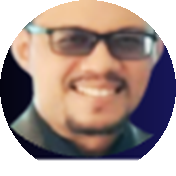
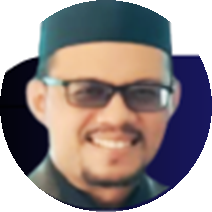
Besarkan potret organisasi dan buang nota tarikh roadmap
Potret
- Beberapa kepala terpotong oleh bingkai bulat kerana potongan asal terlalu
  ketat dan pusatnya terlalu rendah: kepala duduk kira-kira 17px lebih
  tinggi daripada pusat yang digunakan.
- Dipotong semula pada 106px (dahulu 88px) dengan pusat dinaikkan, dan
  dieksport pada 212px. Kesemua lima kepala kini muat dengan ruang lega.
- Bingkai paparan dibesarkan: 58px ke 74px pada desktop, 48px ke 60px pada
  telefon.

Roadmap
- Nota "Hanya penubuhan mempunyai tarikh khusus..." dibuang daripada
  halaman roadmap dan daripada bahagian roadmap di dashboard utama.

diff --git a/app.js b/app.js
@@ -81,7 +81,7 @@ function dashboard(){
 <div class="stats">${stat(null,'Entri program, pencapaian & perancangan',{count:data.programs.length})}${stat(null,'Jumlah asas active streaming dilaporkan',{count:reach,suffix:'++',note:'3 program berangka'})}${stat(null,'Tahun paling aktif dalam rekod',{count:busiest.value,note:busiest.label+' · entri terbanyak'})}${stat(null,'Modul pembelajaran tambahan',{count:data.training.length,note:'Bukan pensijilan rasmi'})}</div>
 <div class="chart-row"><section class="panel chart-main"><div class="chart-card-title"><div><span class="chart-kicker">Garis masa rekod</span><h2>Aktiviti mengikut tahun</h2></div><span class="chart-period">${dated} entri bertarikh</span></div><p class="muted">Setiap entri dikira sekali mengikut tarikhnya. Entri yang merentas dua tahun dikekalkan sebagai kategori tersendiri.</p>${CAAITVisuals.columns(years,{unit:'entri',caption:'Bilangan entri',emphasis:busiest.label})}${dated<data.programs.length?`<p class="source">${e(data.programs.length-dated)} entri belum bertarikh dan tidak dipaparkan sebagai lajur.</p>`:''}</section>${CAAITVisuals.composition(data.programs)}</div>
 <div class="grid-2"><section class="panel"><div class="chart-card-title"><div><span class="chart-kicker">Jangkauan</span><h2>Perkongsian AI</h2></div></div><p class="muted">Active streaming yang dilaporkan.</p>${bars(audiences.map(p=>({label:p.title,value:p.audience,display:p.audienceLabel})),{unit:'active streaming',caption:'Active streaming',emphasis:top.title,summary:'Lihat jadual jangkauan'})}<p class="source">Panjang bar menggunakan nilai asas. “++” bermaksud melebihi angka tersebut. Ini bukan jumlah pelawat unik website; program lain tidak dianggap sifar.</p><p>${e(top.title)} merekodkan angka asas penonton tertinggi antara tiga program yang mempunyai data.</p></section><section class="panel"><div class="chart-card-title"><div><span class="chart-kicker">Belajar</span><h2>Ruang latihan</h2></div></div><p class="muted">Belajar menghasilkan, membina dan menerbitkan dashboard.</p>${trainingLinks()}<p class="source">Kandungan latihan tambahan; bukan rekod program atau pensijilan rasmi CAAiT.</p></section></div>
-<section class="panel"><div class="chart-card-title"><div><span class="chart-kicker">Hala tuju</span><h2>Roadmap CAAiT</h2></div><a class="btn secondary" href="#roadmap">Perincian penuh ↗</a></div><p class="muted">Enam peringkat hala tuju CAAiT. Warna semakin pekat mengikut urutan peringkat, bukan peratus siap.</p>${CAAITVisuals.stages(data.roadmap.map(([title,date,body])=>({title,date,body})))}<p class="source">Hanya penubuhan mempunyai tarikh khusus. Peringkat lain belum ditetapkan tarikh atau peratus siap.</p></section>
+<section class="panel"><div class="chart-card-title"><div><span class="chart-kicker">Hala tuju</span><h2>Roadmap CAAiT</h2></div><a class="btn secondary" href="#roadmap">Perincian penuh ↗</a></div><p class="muted">Enam peringkat hala tuju CAAiT. Warna semakin pekat mengikut urutan peringkat, bukan peratus siap.</p>${CAAITVisuals.stages(data.roadmap.map(([title,date,body])=>({title,date,body})))}</section>
 <section class="panel"><div class="chart-card-title"><div><span class="chart-kicker">Sorotan</span><h2>Pencapaian dalam fokus</h2></div></div>${programCard(data.programs.find(p=>p.id===10))}<a href="#programs">Semua program dan pencapaian ↗</a></section>`;}
 function about(){return head('Pengenalan CAAiT','Center for Applied Artificial Intelligence Technology')+`<div class="grid-2"><section class="panel"><h2>Peranan CAAiT</h2><p>${e(data.intro)}</p><h2 class="section-gap">Misi</h2>${list(data.missions)}<p class="note">Pensijilan ialah aspirasi dalam misi. Ia tidak bermaksud tiga modul latihan dashboard ini menawarkan sijil atau pengiktirafan rasmi.</p></section><section class="panel"><a href="assets/pengenalan.png" target="_blank" rel="noopener"><img class="full-image" src="assets/pengenalan.png" alt="Poster asal pengenalan dan empat misi CAAiT"></a></section></div>`;}
 function organization(){
@@ -89,7 +89,7 @@ function organization(){
  const chips=data.coordinators.map(code=>`<span class="org-chip">Koordinator ${e(code)}</span>`).join('');
  return head('Struktur organisasi','Rantaian tanggungjawab CAAiT, daripada JPPKK hingga koordinator jabatan.')+`<section class="panel org-panel"><ol class="org-chain">${chain}</ol><div class="org-branch"><span class="org-branch-line" aria-hidden="true"></span><h3>Koordinator jabatan</h3><div class="org-chips">${chips}</div><p class="source">Nama koordinator belum ditetapkan.</p></div></section>`;
 }
-function roadmap(){return head('Roadmap CAAiT','Daripada penubuhan kepada pengembangan ekosistem AI gunaan.')+`<section class="panel">${CAAITVisuals.stages(data.roadmap.map(([title,date,body])=>({title,date,body})))}<p class="note">Hanya penubuhan mempunyai tarikh khusus. Tahap lain belum ditetapkan tarikh atau peratus siap.</p><p>Rujukan strategik: POLI DIGITAL, POLYCC Artificial Intelligence Reform Agenda (PAIR), serta Hala Tuju Transformasi Politeknik 2023–2030.</p></section>`;}
+function roadmap(){return head('Roadmap CAAiT','Daripada penubuhan kepada pengembangan ekosistem AI gunaan.')+`<section class="panel">${CAAITVisuals.stages(data.roadmap.map(([title,date,body])=>({title,date,body})))}<p>Rujukan strategik: POLI DIGITAL, POLYCC Artificial Intelligence Reform Agenda (PAIR), serta Hala Tuju Transformasi Politeknik 2023–2030.</p></section>`;}
 function programs(){return head('Program & pencapaian','Rekod aktiviti dan rancangan dipisahkan mengikut status pengesahan.')+`<div class="filter"><label>Tapis rekod<select id="program-filter"><option value="all">Semua ${data.programs.length} entri</option><option value="reported">Direkodkan</option><option value="mixed">LOI & perancangan</option><option value="future">Kerjasama masa hadapan</option></select></label></div><section class="panel">${data.programs.map(programCard).join('')}</section>`;}
 function partners(){return head('Kerjasama & hala tuju','Hubungan yang disebut dalam aktiviti dibezakan daripada peluang dan rancangan masa hadapan.')+`<div class="grid-2"><section class="panel"><h2>Hubungan dalam program</h2>${list(['Benchmarking 2024: MDEC, CAIRO UTM dan HEJIM UKM; foto La Trobe University.','AI Awareness: CAAiT × CAIRO.','AI Project in Action: AIBiG, Korea Selatan dan Indonesia. Poster menamakan Dongyang Mirae University, Politeknik Bandung dan C-TECH.','Latihan pensyarah: DTex MDEC, SOLS dan AI Integration Design Program, University of New South Wales, Sydney.'])}<p class="source">Penglibatan dalam program bukan bukti bahawa semua hubungan mempunyai MoU.</p></section><section class="panel"><h2>Kerjasama dalam perancangan</h2>${programCard(data.programs[5])}${programCard(data.programs[11])}</section></div><section class="panel"><h2>Arah pengembangan</h2>${list(['Program akan datang seperti Polytechnic AI dan Diploma in Applied AI; penawaran diploma disasarkan pada 2027.','Keutamaan penyelidikan dan pengembangan peringkat serantau, nasional serta antarabangsa.','Hubungan industri dan peluang pengkomersialan inovasi.','Peluang kolaborasi bersama industri, akademik dan agensi kerajaan; universiti, MDEC dan HRD Corp disebut sebagai contoh.','Mengalu-alukan kerjasama atau MoU dengan industri.'])}</section>`;}
 function training(id){const t=data.training.find(t=>t.id===id);if(!t)return head('Latihan','Tiga modul pembelajaran tambahan untuk membina kemahiran menghasilkan dashboard.')+`<section class="panel">${trainingLinks()}</section><p class="note">Pembelajaran kendiri. Tiada tarikh bengkel, kuota peserta atau sijil rasmi ditetapkan. Data rekaan ditandakan sebagai data latihan.</p>`;return head(t.title,t.description)+`<p><a href="#training">← Semua latihan</a></p><p class="note">Kandungan latihan tambahan berdasarkan dokumentasi produk rasmi. Semua contoh angka ialah data latihan, bukan fakta CAAiT.</p><div class="grid-2"><section class="panel"><h2>Objektif pembelajaran</h2>${list(t.objectives)}</section><section class="panel"><h2>Keperluan asas</h2><p>${e(t.requirements)}</p></section></div><section class="panel"><h2>Langkah pembelajaran</h2>${t.steps.map(([title,body],i)=>`<article class="step"><h3>${i+1}. ${e(title)}</h3><p>${e(body)}</p></article>`).join('')}</section><div class="grid-2"><section class="panel"><h2>${id==='github'?'Contoh arahan Git':'Contoh arahan AI'}</h2><pre>${e(t.prompt)}</pre></section><section class="panel"><h2>Latihan praktikal</h2><p>${e(t.practice)}</p><h3>Hasil yang boleh dicapai</h3><p>${e(t.outcome)}</p></section></div><section class="panel"><h2>Rujukan rasmi</h2><ul>${t.sources.map(([n,u])=>`<li><a href="${u}" target="_blank" rel="noopener">${e(n)} ↗</a></li>`).join('')}</ul><p class="source">Disemak pada 4 November 2026. Antara muka dan akses ciri boleh berubah mengikut versi atau pelan.</p></section>`;}

diff --git a/index.html b/index.html
@@ -1,6 +1,6 @@
 <!DOCTYPE html>
 <html lang="ms">
-<head><meta charset="utf-8"><meta name="viewport" content="width=device-width,initial-scale=1"><meta name="description" content="Pengenalan, program, hala tuju dan latihan CAAiT, Politeknik Ungku Omar."><title>CAAiT | Dashboard</title><link rel="stylesheet" href="styles.css?v=20261105-v12"><link rel="icon" href="assets/caait.png"><meta name="theme-color" content="#5b21c7"><meta property="og:title" content="CAAiT | Center for Applied Artificial Intelligence Technology"><meta property="og:description" content="Pengenalan, program, hala tuju dan latihan CAAiT, Politeknik Ungku Omar."><meta property="og:type" content="website"><meta property="og:image" content="assets/caait.png"><link rel="stylesheet" href="analytics.css?v=20261105-v12"><script src="visuals.js?v=20261105-v12" defer></script><script src="content.js?v=20261105-v12" defer></script><script src="app.js?v=20261105-v12" defer></script></head>
+<head><meta charset="utf-8"><meta name="viewport" content="width=device-width,initial-scale=1"><meta name="description" content="Pengenalan, program, hala tuju dan latihan CAAiT, Politeknik Ungku Omar."><title>CAAiT | Dashboard</title><link rel="stylesheet" href="styles.css?v=20261105-v13"><link rel="icon" href="assets/caait.png"><meta name="theme-color" content="#5b21c7"><meta property="og:title" content="CAAiT | Center for Applied Artificial Intelligence Technology"><meta property="og:description" content="Pengenalan, program, hala tuju dan latihan CAAiT, Politeknik Ungku Omar."><meta property="og:type" content="website"><meta property="og:image" content="assets/caait.png"><link rel="stylesheet" href="analytics.css?v=20261105-v13"><script src="visuals.js?v=20261105-v13" defer></script><script src="content.js?v=20261105-v13" defer></script><script src="app.js?v=20261105-v13" defer></script></head>
 <body>
 <a class="skip" href="#main">Langkau ke kandungan</a>
 <header class="topbar"><button id="sidebar-toggle" class="icon-button" aria-label="Buka atau kecilkan menu" aria-controls="sidebar" aria-expanded="true">☰</button><div class="logos"><img src="assets/kpt.png" alt="Kementerian Pendidikan Tinggi · Jabatan Pendidikan Politeknik dan Kolej Komuniti"><img src="assets/caait.png" alt="CAAiT"><img src="assets/puo.png" alt="Politeknik Ungku Omar"></div><span class="topbar-label">Pusat AI Gunaan · POLYCC</span></header>

diff --git a/analytics.css b/analytics.css
@@ -286,7 +286,7 @@ nav a.active{background:var(--tint);color:var(--violet);border-left-color:var(--
 /* The connector hangs below each card and stops before the last one. */
 .org-link{position:absolute;left:50%;bottom:-34px;width:2px;height:34px;background:linear-gradient(#d9d0f0,#cdbdf2)}
 .org-node:last-child .org-link{display:none}
-.org-face{width:58px;height:58px;border-radius:50%;flex-shrink:0;object-fit:cover;background:#f0ecf8;
+.org-face{width:74px;height:74px;border-radius:50%;flex-shrink:0;object-fit:cover;background:#f0ecf8;
   border:2px solid #fff;box-shadow:0 3px 10px #1a0b4214}
 .org-id strong{display:block;font-size:15px;color:var(--text);line-height:1.3}
 .org-id span{display:block;font-size:12px;color:var(--muted);margin-top:3px}
@@ -309,7 +309,7 @@ nav a.active{background:var(--tint);color:var(--violet);border-left-color:var(--
 }
 @media(max-width:760px){
   .org-node{gap:14px;padding:12px 14px}
-  .org-face{width:48px;height:48px}
+  .org-face{width:60px;height:60px}
   .org-id strong{font-size:14px}
 }
 @media(prefers-reduced-motion:reduce){
